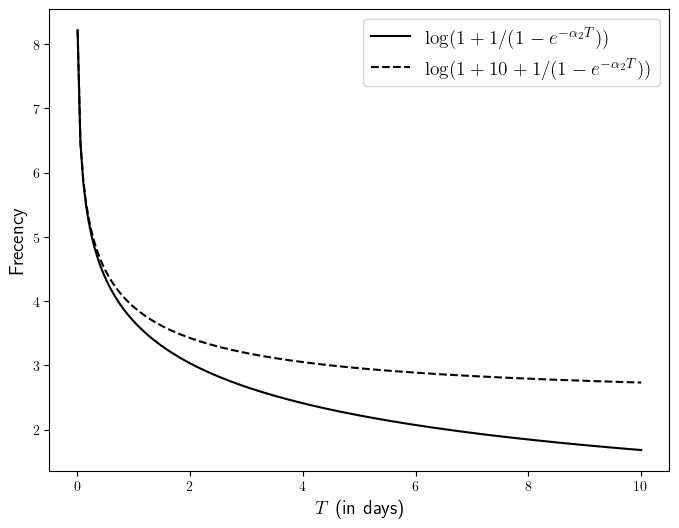
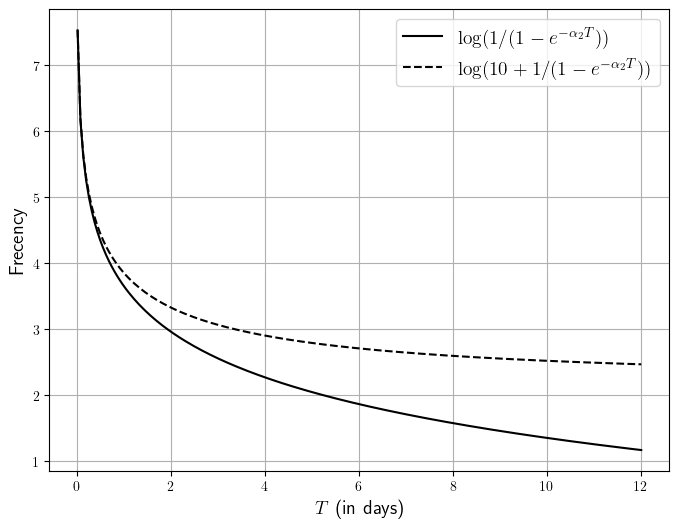
default inverse temperature of 0.5

diff --git a/src/arguments.c b/src/arguments.c
@@ -17,7 +17,7 @@ static const char HELP_STRING[] =
     " -c, --color               Highlight matches in outputs.\n"
     " -s, --scores              Print the scores of the matches.\n"
     " -b, --beta=BETA           Specify an inverse temperature\n"
-    "                           when computing the score (default=1.0).\n\n"
+    "                           when computing the score (default=0.5).\n\n"
     "Update the database:\n"
     " -a, --add                 Add the query to the database or\n"
     "                           update its record.\n"
@@ -42,7 +42,9 @@ static void args_init(Arguments *args) {
   args->highlight = false;
   args->print_scores = false;
   args->mode = MODE_search;
-  args->beta = 1.0;
+  // frecency(path visited every day) ~ frecency(path visited every two days) + 1
+  // a beta of 0.5 enforces that this corresponds to a diffence of +2 in matching score.
+  args->beta = 0.5; 
   args->weight = 1.0;
 }
 
@@ -100,7 +102,7 @@ Arguments *parse_arguments(int argc, char **argv) {
       }
       if (args->weight < 0) {
         fprintf(stderr,
-                "ERROR: The weight a visit (-w option) can't be negative.\n");
+                "ERROR: The weight of a visit (-w option) can't be negative.\n");
         exit(EXIT_FAILURE);
       }
       break;

diff --git a/src/record.c b/src/record.c
@@ -11,8 +11,9 @@ static const double LONG_DECAY = 3 * 1e-7;
 void parse_record(char *string, Record *rec) {
   char *current = string;
   rec->path = strtok_r(string, "|", &current);
-  char * parsed = strtok_r(current, "|", &current);
-  if (parsed == NULL || current == NULL || *parsed == '\0' || *current == '\0') {
+  char *parsed = strtok_r(current, "|", &current);
+  if (parsed == NULL || current == NULL || *parsed == '\0' ||
+      *current == '\0') {
     fprintf(stderr, "ERROR: Invalid line format for the database file.\n"
                     "Lines have to be of the form "
                     "<path>|<number-of-visits>|<timestamp>.\n");
@@ -36,6 +37,7 @@ char *record_to_string(Record *rec) {
 }
 
 double frecency(double n_visits, double delta) {
-  return log(1.0 + 10 * exp(-SHORT_DECAY * delta) +
-             exp(-LONG_DECAY * delta) * n_visits);
+  // log(0.1)  ~ -2.3, so we add 2.4 to ensure frecency is > 0
+  return 2.4 + log(0.01 + 10 * exp(-SHORT_DECAY * delta) +
+                   exp(-LONG_DECAY * delta) * n_visits);
 }

diff --git a/src/jumper.c b/src/jumper.c
@@ -101,10 +101,11 @@ static void lookup(Arguments *args) {
   size_t len;
   while (getline(&line, &len, fp) != -1) {
     parse_record(line, &rec);
-    match_score = match_accuracy(rec.path, args->key, args->highlight, &matched_str);
+    match_score =
+        match_accuracy(rec.path, args->key, args->highlight, &matched_str);
     if (match_score > 0) {
       score = args->beta * match_score +
-              2 * frecency(rec.n_visits, now - rec.last_visit);
+              frecency(rec.n_visits, now - rec.last_visit);
       insert(heap, score, matched_str);
     }
   }

diff --git a/doc/algorithm.md b/doc/algorithm.md
@@ -6,9 +6,9 @@ The main idea is that, when only a few (say <=2) characters have been entered by
 ## Frecency
 The frecency of a match measures the frequency and recency of the visits of the match. Assume that a match has been visited at times $T_0 > \cdots > T_n$, then at time $t$, we define
 ```math
-\text{frecency}(t) = \log\left(1 + 10 \, e^{- \alpha_1 (t - T_0)} + \sum_{i=0}^n e^{-\alpha_2 (t-T_i)} \right)
+\text{frecency}(t) = \log\left( \epsilon + 10 \, e^{- \alpha_1 (t - T_0)} + \sum_{i=0}^n e^{-\alpha_2 (t-T_i)} \right)
 ```
-Here $\alpha_1 = 5 \times 10^{-5}$, $\alpha_2 = 3 \times 10^{-7}$ and all times are expressed in seconds. These values are chosen so that $e^{-\alpha_1 {\rm \ 4 \ hours}} \simeq 1 / 2$ and  $e^{-\alpha_2 {\rm \ 1\ month}} \simeq 1 / 2$.
+Here $\alpha_1 = 5 \times 10^{-5}$, $\alpha_2 = 3 \times 10^{-7}$ and all times are expressed in seconds. These values are chosen so that $e^{-\alpha_1 {\rm \ 4 \ hours}} \simeq 1 / 2$ and  $e^{-\alpha_2 {\rm \ 1\ month}} \simeq 1 / 2$. $\epsilon = 0.1$ enforces that the frecency remains bounded from below.
 
 Let us now motivate a bit the definition of frecency above. 
 Let us first consider an item that has not been visited within the last 10 hours, so that we can neglect the term $10 e^{- \alpha_1 (t - T_0)}$. 
@@ -16,8 +16,8 @@ Let's set $t=0$ as the origin of times.
 Assume moreover that this item is typically visited every $T$ seconds, so that $T_i = - i T$ for $i=0,1,2, \dots$. Therefore
 ```math
 \text{frecency}(t) 
-\simeq \log\left(1 + \sum_{i=0}^{\infty} e^{-\alpha_2 i T} \right)
- =  \log\left(1 + \frac{1}{1 - e^{-\alpha_2 T}} \right)
+\simeq \log\left( \sum_{i=0}^{\infty} e^{-\alpha_2 i T} \right)
+ =  \log\left( \frac{1}{1 - e^{-\alpha_2 T}} \right)
 ```
 We plot this function below:
 
@@ -25,7 +25,7 @@ We plot this function below:
 
 In the case where the item has just been visited, the frecency above gets an increase of $+10$ inside of the $\log$, leading to the dashed curve. This allows directories that have been very recently visited but that do not have a long history of visits (think for instance at a newly created directory) to compete with older directories that have been visited for a very long time.
 
-As we can see from the plot above, the frecency will typically be a number in the range $[0,5]$. Many other definitions for frecency are possible. We chose this one for the following reasons:
+As we can see from the plot above, the frecency will typically be a number in the range $[0,6]$. Many other definitions for frecency are possible. We chose this one for the following reasons:
 - It does not diverge at time goes. [z](https://github.com/rupa/z) uses something like `number-of-visits / time-since-last-visit`, which potentially diverges over time (and therefore require some "aging" mechanism).
 - It only requires to keep track of the "adjusted" number of visits $\sum_i e^{-\alpha_2 (t-T_i)}$ and the time of last visit to be computed.
 
@@ -37,7 +37,7 @@ As we can see from the plot above, the frecency will typically be a number in th
 ## Match accuracy
 
 The match accuracy evaluates how well the query entered by the user matches the path stored in the database.
-Similarly to the fuzzy-finders [fzf](https://github.com/junegunn/fzf) or [fzy](https://github.com/jhawthorn/fzy), this is done using the variant of the [Needleman-Wunsch algorith](https://en.wikipedia.org/wiki/Needleman–Wunsch_algorithm).
+Similarly to the fuzzy-finders [fzf](https://github.com/junegunn/fzf) or [fzy](https://github.com/jhawthorn/fzy), this is done using a variant of the [Needleman-Wunsch algorith](https://en.wikipedia.org/wiki/Needleman–Wunsch_algorithm).
 
 This finds the match that maximizes
 ```
@@ -53,9 +53,9 @@ where the maximum is computed over all matches of `query` in `path`. We call "ma
 ## Final score
 Based on these two numbers, Jumper ranks paths using
 ```math
-\text{score}(\text{query}, \text{path}, t) =  \text{frecency}(\text{path}, t) + \frac{\beta}{2} \, \text{accuracy}(\text{query}, \text{path}).
+\text{score}(\text{query}, \text{path}, t) =  \text{frecency}(\text{path}, t) + \beta \, \text{accuracy}(\text{query}, \text{path}).
 ```
-where $\beta = 1.0$ by default, and be updated with the flag `-b <value>`. 
+where $\beta = 0.5$ by default, and be updated with the flag `-b <value>`. 
 This additive definition is motivated by the following.
 
 Suppose that one is fuzzy-finding a path, adding one character to the `query` at a time.
@@ -75,7 +75,7 @@ We give below more details about this Bayesian model.
 
 **Prior distribution:** Assume that the visits of a given path is a self-exciting point process, with conditional intensity
 ```math
-\lambda(t, \text{path}) = 1 + 10 e^{-\alpha_1 (t - T_0)} + \sum_{T_k \leq t} e^{-\alpha_2 (t - T_k)}
+\lambda(t, \text{path}) = \epsilon +  10 e^{-\alpha_1 (t - T_0)} + \sum_{T_k \leq t} e^{-\alpha_2 (t - T_k)}
 ```
 independently from the visits to the other folders.
 
@@ -84,12 +84,12 @@ The user gave his query to the algorithm, which can be seen as a noisy observati
 
 **Conditional distribution:** We model
 ```math
-P(\text{query}|\text{path}) = \frac{1}{Z} \exp\Big(\frac{\beta}{2} \, \text{accuracy}(\text{query},\text{path})\Big)
+P(\text{query}|\text{path}) = \frac{1}{Z} \exp\Big(\beta \, \text{accuracy}(\text{query},\text{path})\Big)
 ```
 ($Z$ being here the appropriate normalizing constant) meaning that the user is more likely make query that have a large accuracy.
 
 The posterior probability is therefore proportional to
 ```math
-P(\text{path}|\text{query}) \propto \lambda(t, \text{path}) \exp\Big(\frac{\beta}{2} \,  \text{accuracy}(\text{query},\text{path})\Big)
+P(\text{path}|\text{query}) \propto \lambda(t, \text{path}) \exp\Big(\beta \,  \text{accuracy}(\text{query},\text{path})\Big)
 ```
 The ranking algorithm simply ranks the paths according to their $\log$-posterior probability.

diff --git a/README.md b/README.md
@@ -45,7 +45,7 @@ The ranking of a path at time $t$ is based on the following score
 ```math
 \text{score}(\text{query}, \text{path}) =  \text{frecency}(t, \text{path}) + \beta \times \text{accuracy}(\text{query}, \text{path})
 ```
-where $\beta = 1.0$ by default, but can be updated with the flag `-b <value>`. 
+where $\beta = 0.5$ by default, but can be updated with the flag `-b <value>`. 
 More details about the scoring mechanism are given [here](https://github.com/homerours/jumper/blob/master/doc/algorithm.md).
 
 ## Installation process
